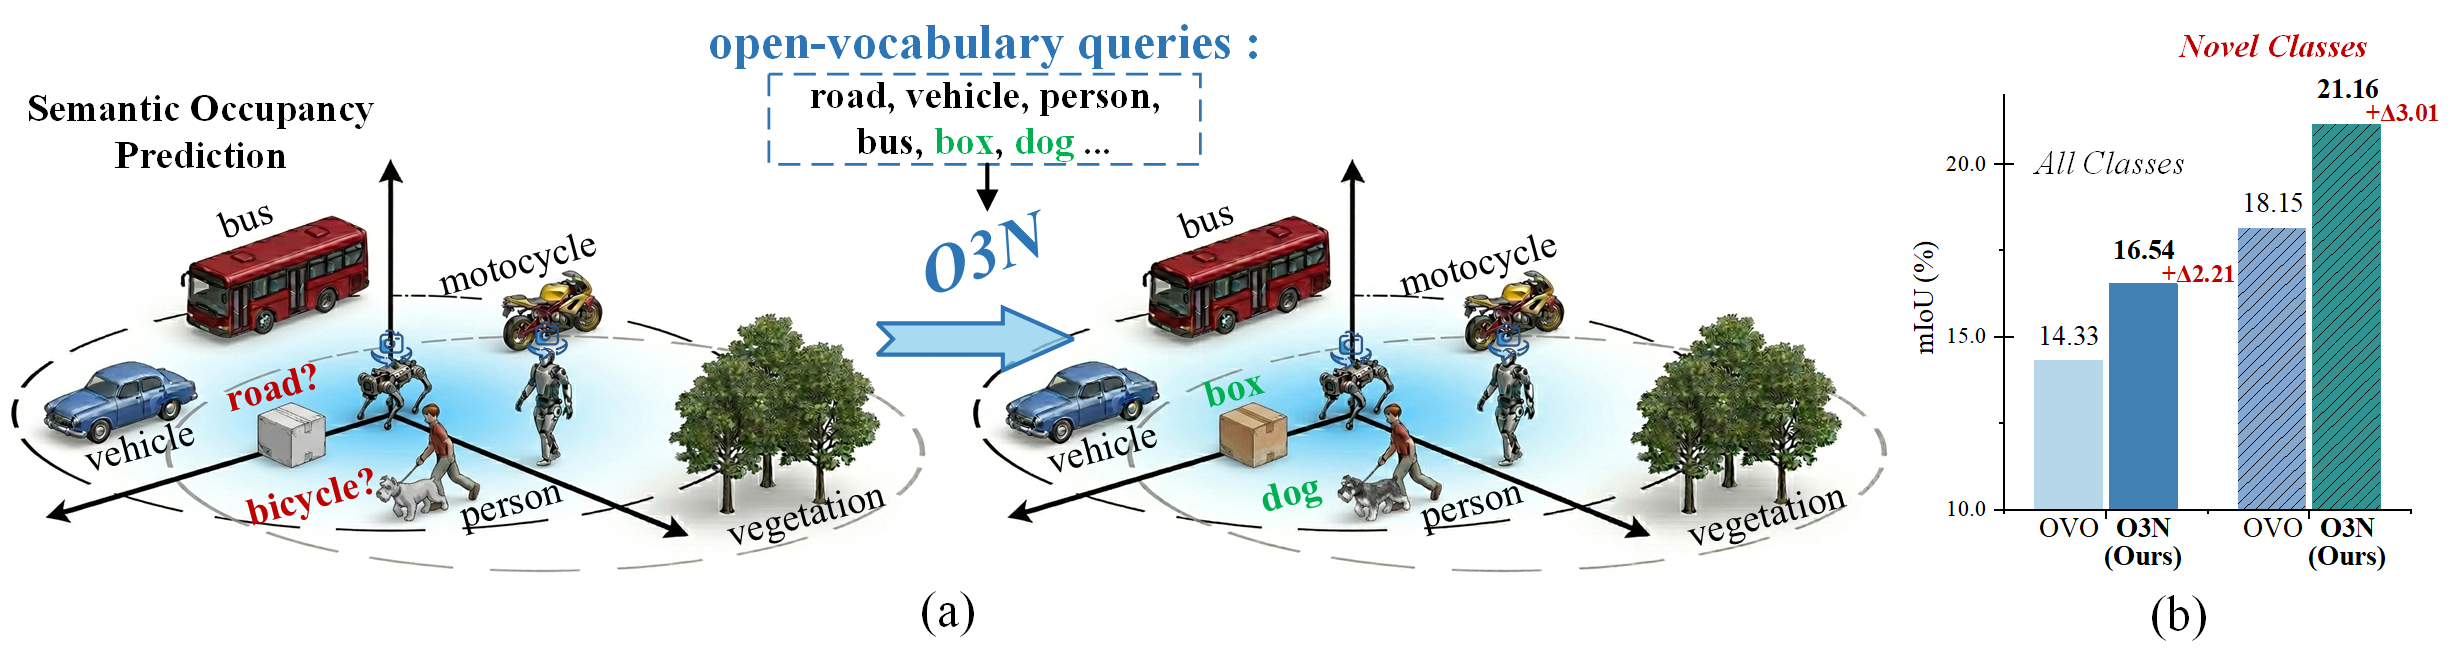
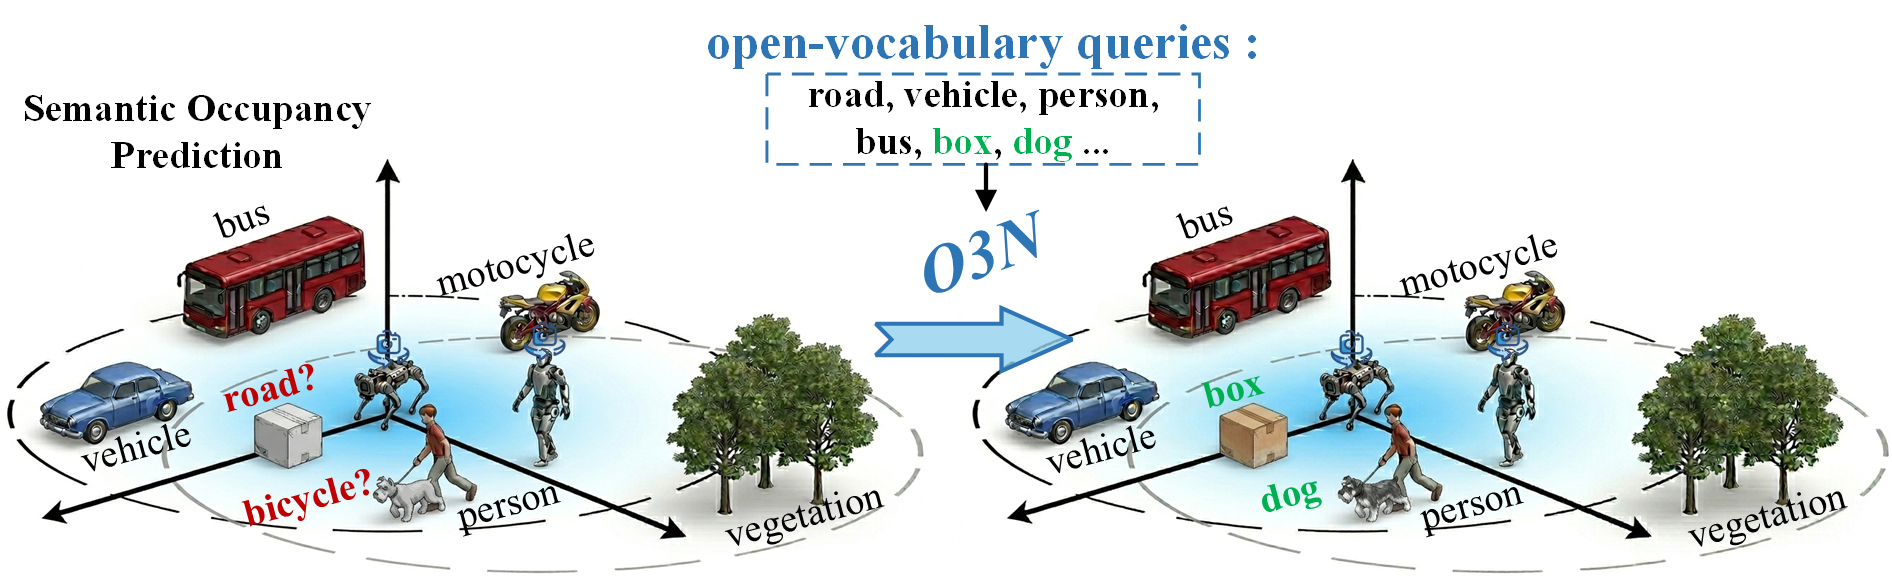
git init

diff --git a/README.md b/README.md
@@ -14,30 +14,19 @@
         <sup>2</sup>Zhejiang University
 </p>
 
----
-
 **O3N** is the first purely visual, end-to-end framework for **omnidirectional open-vocabulary 3D occupancy prediction**. It enables autonomous agents and embodied AI systems to reconstruct and semantically understand full 360° scenes in open-world environments, without being limited by fixed vocabularies or narrow field-of-view inputs.
 
----
-
 ## 🎥 Teaser
-
 <div align="center">
-  <img src="https://github.com/MengfeiD/O3N/blob/main/assets/teaser.png" width="80%">
+  <img src="https://github.com/MengfeiD/O3N/blob/main/assets/teaser.png">
 </div>
 
----
-
 ## 📰 News
-
 - **03/12/2026**: Repository initialized! Please watch this repo for updates. Thank you for your interest in our work!
-
----
 
 ## 🤝 Publication:
 Please consider referencing this paper if you use the ```code``` or ```data``` from our work.
 Thanks a lot :)
-
 ```
 @article{duan2026o3n,
   title={O3N: Omnidirectional Open-Vocabulary Occupancy Prediction},
